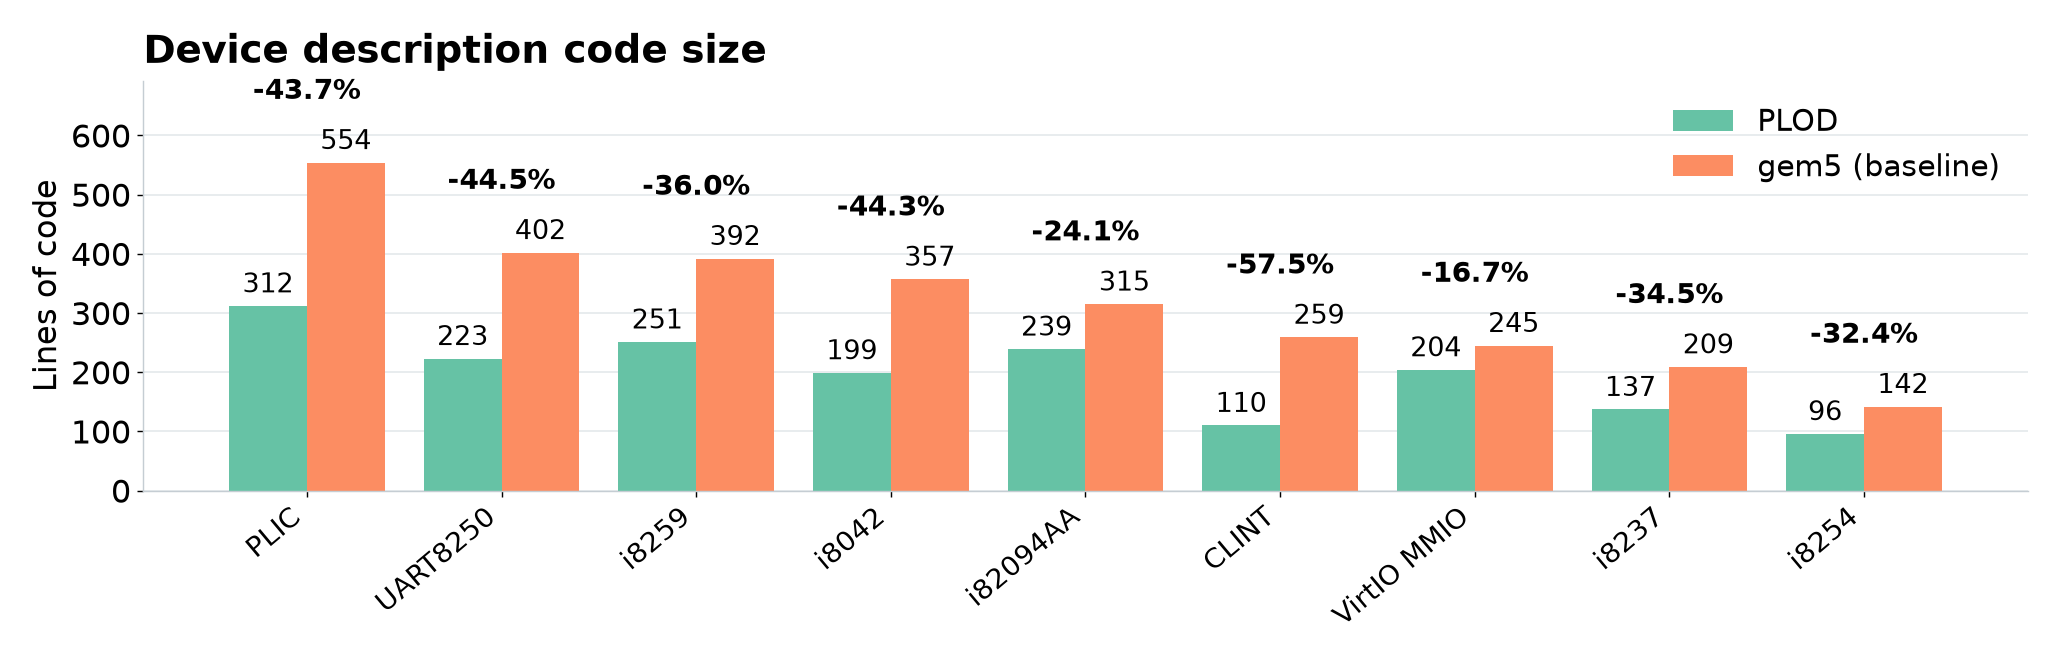
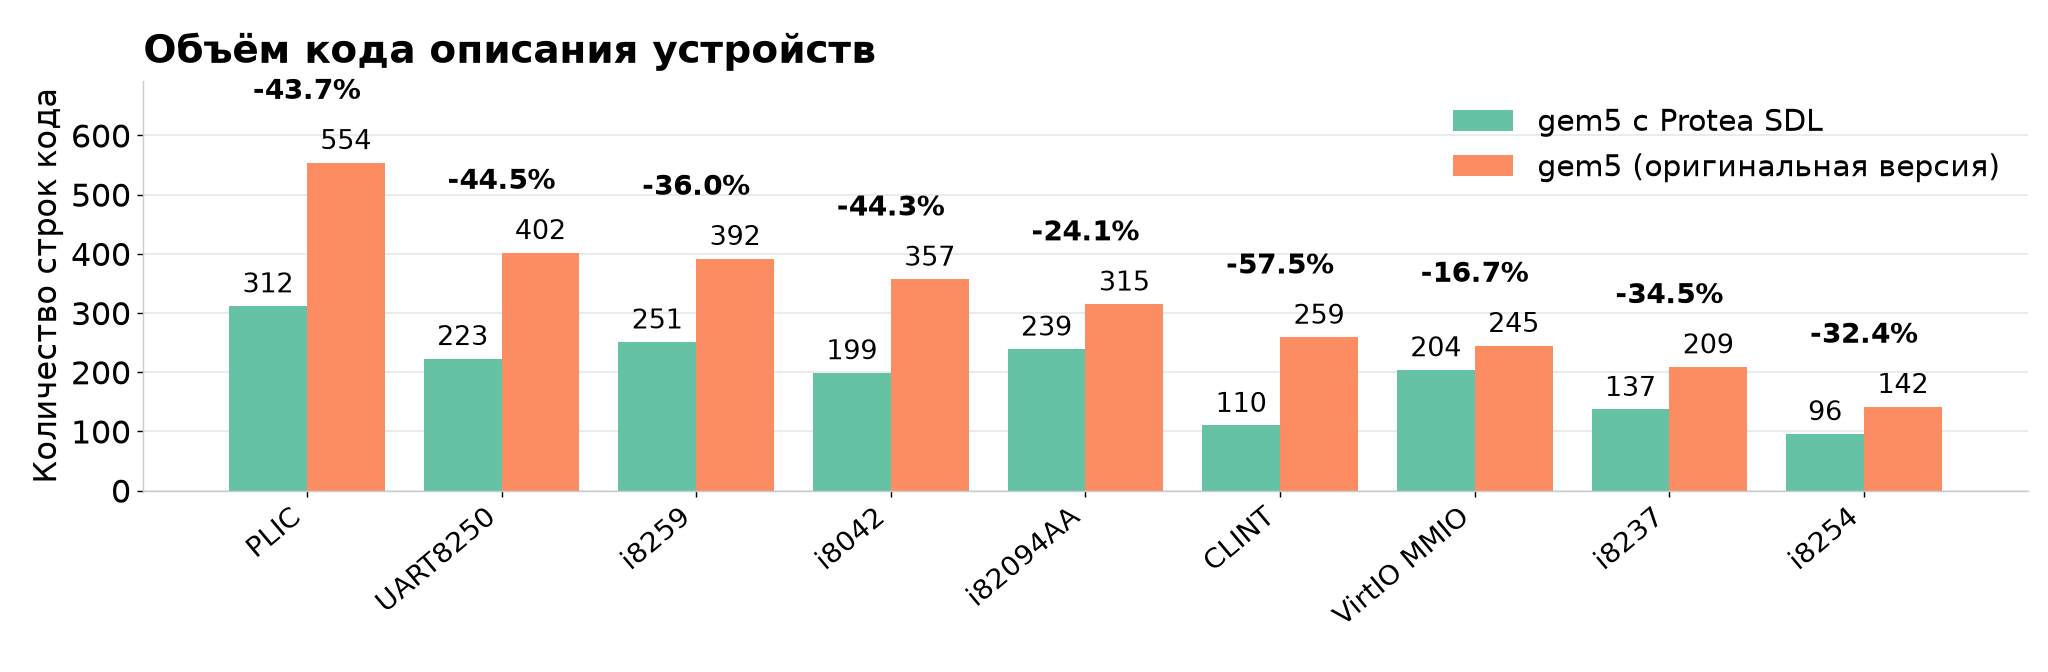
[Docs] Localize device code size chart to Russian
Translate the title, line-count axis and legend into Russian, and
include the corresponding PNG so the script and displayed chart agree.

Validation on this exact snapshot:
- ruby -S rake test (installed gems; historical lockfiles preserved)
- Frontend/checker/target registry smoke check
- Pinned gem5 fixture SHA-256 checks
- Plot script syntax (render dependencies unavailable)

Source revision: 70f6332080d33bf0755dd47a2ff40a1131ffbc56
Diff against preceding branch: +4/-4 text lines.

diff --git a/docs/plots/compare_device_sizes.py b/docs/plots/compare_device_sizes.py
@@ -65,12 +65,12 @@ def render(rows, output):
     plod_bars = ax.bar(
         [position - width / 2 for position in positions],
         [row["plod_code_lines"] for row in rows], width,
-        color="#66C2A5", label="PLOD",
+        color="#66C2A5", label="gem5 с Protea SDL",
     )
     gem5_bars = ax.bar(
         [position + width / 2 for position in positions],
         [row["gem5_code_lines"] for row in rows], width,
-        color="#FC8D62", label="gem5 (baseline)",
+        color="#FC8D62", label="gem5 (оригинальная версия)",
     )
     for bars in (plod_bars, gem5_bars):
         ax.bar_label(bars, padding=4, fontsize=15, color="black")
@@ -87,8 +87,8 @@ def render(rows, output):
     maximum = max(max(row["gem5_code_lines"], row["plod_code_lines"]) for row in rows)
     ax.set_ylim(0, maximum * 1.25)
     ax.yaxis.set_major_locator(MultipleLocator(100 if maximum < 1000 else 200))
-    ax.set_ylabel("Lines of code")
-    ax.set_title("Device description code size", loc="left", fontsize=22,
+    ax.set_ylabel("Количество строк кода")
+    ax.set_title("Объём кода описания устройств", loc="left", fontsize=22,
                  fontweight="bold", pad=10)
     ax.set_axisbelow(True)
     ax.grid(axis="y", color="#E6EAED", linewidth=1)
